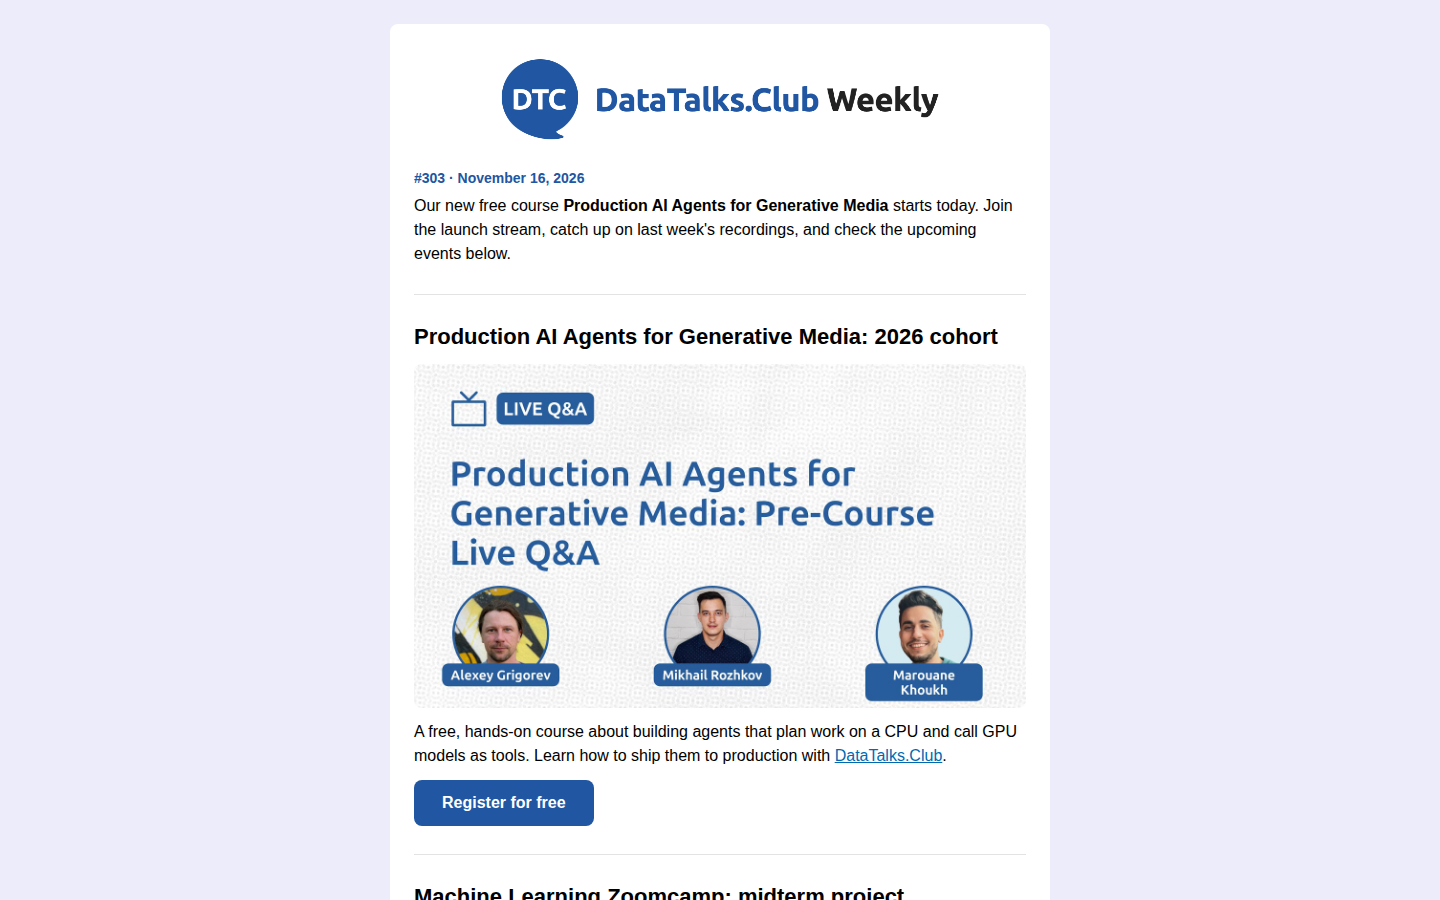
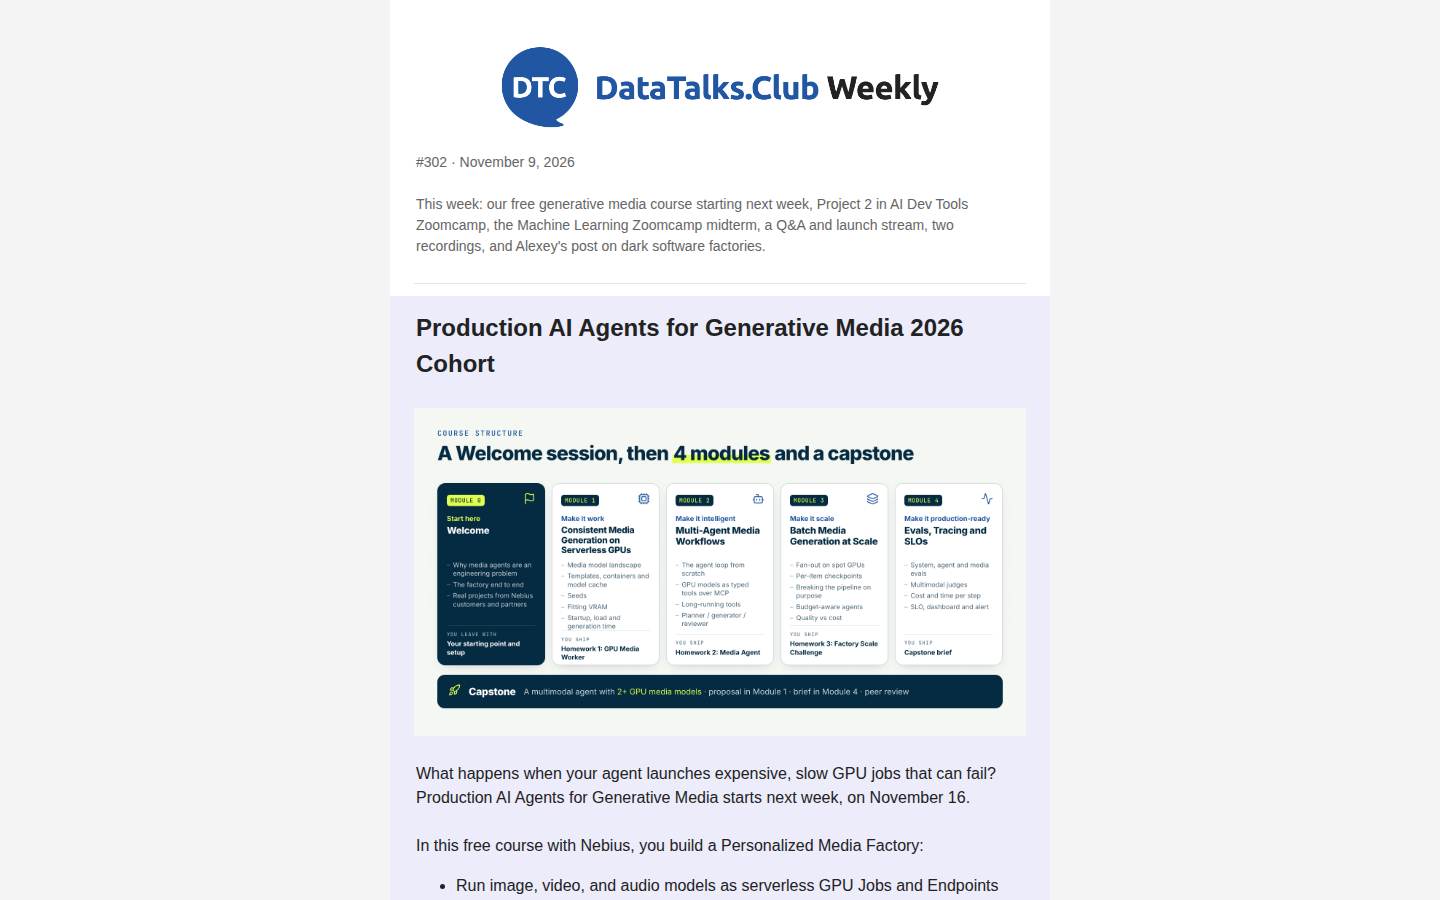
Guide: newsletter preview screenshots in the issue #302 template
The live preview and full preview now render the template of the issues we
sent before (PR #118), so the old lavender-card screenshots were stale.
Retaken on prod (34fbefd) with issue #302 rebuilt from blocks, plus a shot
of the subject/preview help text.

Changed region(s): [[0.2812, 0.3422, 0.7188, 1.0], [0.2812, 0.0311, 0.7188, 0.3111]]

diff --git a/docs/guides/newsletter-from-blocks.md b/docs/guides/newsletter-from-blocks.md
@@ -64,6 +64,8 @@ What you see:
 
   You can leave the preview text empty. Then the inbox shows the text of the
   **Intro** block, the same as in previous issues.
+
+  ![Subject written like previous issues, empty preview text, and the inbox line taken from the intro](newsletter-from-blocks/05b-subject-and-preview.png)
 - **Blocks** on the left are the parts of the email, top to bottom.
 - **Live preview** on the right shows the email as it looks now. Yellow dashed
   boxes mark blocks that still need content. They do not appear in the real
@@ -198,7 +200,7 @@ preview to see both sizes.
 
 For a full-size view click **Preview in new tab** at the top of the page.
 
-![The full preview in its own tab](newsletter-from-blocks/12-full-preview.png)
+![The full preview in its own tab, in the same template as issue #302](newsletter-from-blocks/12-full-preview.png)
 
 The logo at the top and the community text at the bottom are added
 automatically. You do not need blocks for them.
